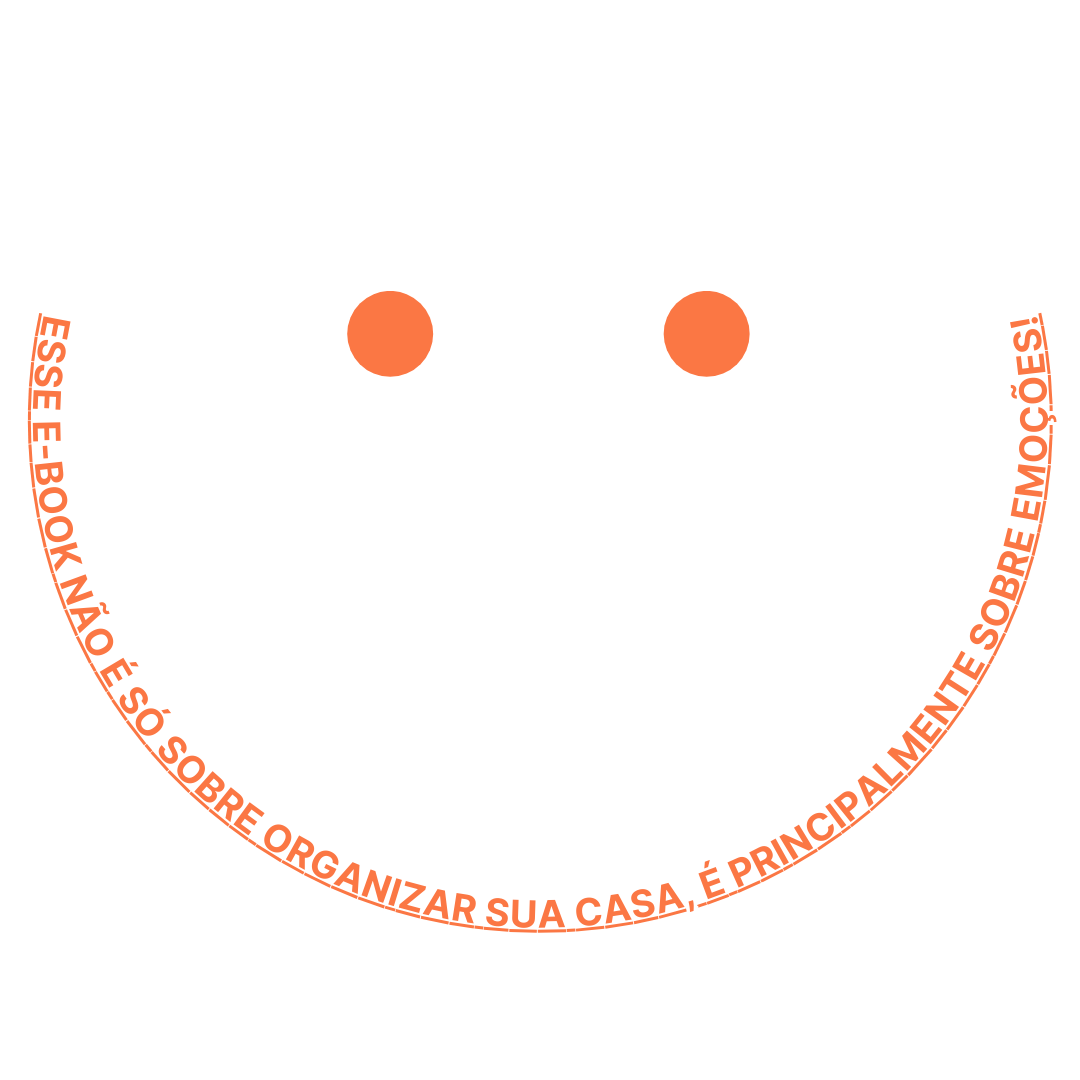
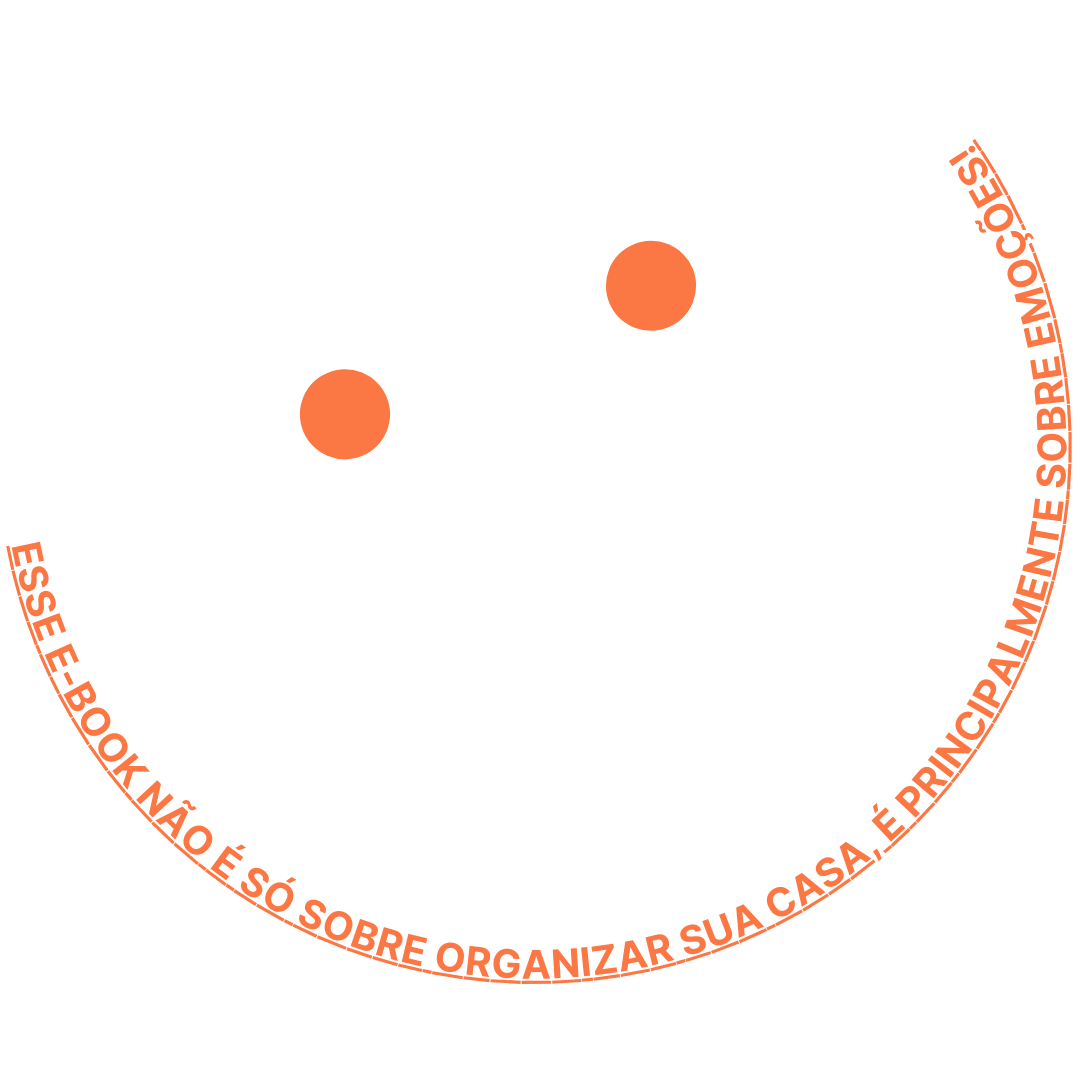
Error barra navegacion resuelto

Changed region(s): [[0.0, 0.1222, 1.0, 0.9167], [0.55, 0.2139, 0.7028, 0.3667], [0.275, 0.2444, 0.3972, 0.4278]]

diff --git a/assets/css/responsive.css b/assets/css/responsive.css
@@ -3,6 +3,10 @@
 /*--------------------*/
 
 @media (min-width: 320px) and (max-width: 575px) {
+	#mu-contact {
+		background-size: 30%;
+		background-position: bottom right 10px;
+	}
 	.navbar-header a.navbar-brand{
 		font-size: 20px;
 		line-height: 20px;
@@ -119,6 +123,10 @@
 }
 
 @media (min-width:576px) and (max-width: 767px) {
+	#mu-contact {
+		background-size: 25%;
+		background-position: bottom right 10px;
+	}
 	.navbar-default .navbar-brand {
 		margin-top: -7px;
 	}
@@ -193,6 +201,10 @@
 }
 
 @media (min-width: 768px) and (max-width: 991px) {
+	#mu-contact {
+		background-size: 25%;
+		background-position: bottom right 30px;
+	}
 	.mu-fixed-nav .navbar-brand {
 		font-size: 25px;
 	}
@@ -387,66 +399,26 @@
 	}
 
 	@media (min-width: 1440px) and (max-width: 1919px) {
-		.mu-hero-left{
-			position: relative;
-			top: 50px;
-			width: 120%;
-			right: 100px;
+		.navbar-default .mu-menu li {
+			margin-left: 10px; /* Ajusta según sea necesario */
+			margin-right: 10px; /* Ajusta según sea necesario */
 		}
-		.mu-hero-left h1 {
+	
+		.navbar-brand {
 			position: relative;
-			left: 10px;
-			bottom: 30px;
-			font-size: 50px;
+			right: 0; /* Ajusta según sea necesario */
 		}
+	
+		.mu-hero-left {
+			position: relative;
+			width: 100%; /* Ajusta según sea necesario */
+		}
+	
+		.mu-hero-left h1,
 		.mu-hero-left h3 {
 			position: relative;
-			left: 10px;
-			bottom: 50px;
-			font-size: 30px;
-		}
-		.navbar-default .mu-menu li a {
-			position: relative;
-			left: 100px;
-			margin: 10px 12px 5px;
-		}
-		.mu-author-info {
-			margin-top: 0px;
-		}
-		.mu-pricing-single img {
-			max-width: 100%;
-		}
-		.mu-hero-right img {
-			position: relative;
-			right: 30px;
-			top: 30px;
-			max-width: 130%;
-			height: auto;
-		}
-		span.redline {
-			position: relative;
-			top: 30px;
-			left: 25px;
-			font-size: 25px;
-		}
-		.mu-hero-left a.mu-primary-btn {
-			width: 95%;
-			position: relative;
-			bottom: 50px;
-			left: 5px;
-		}
-		.mu-hero-left span {
-			position: relative;
-			bottom: 50px;
-			right: 15px;
-		}
-		.navbar-brand br {
-			display: none;
-			font-size: 15px;
-		}
-		.navbar-brand{
-			position: relative;
-			right: 100px;
+			left: 0;
+			bottom: 0;
 		}
 	}
 
@@ -469,11 +441,6 @@
 		left: 10px;
 		bottom: 50px;
 		font-size: 40px;
-	}
-	.navbar-default .mu-menu li a {
-		position: relative;
-		left: 200px;
-		margin: 10px 12px 5px;
 	}
 	.mu-author-info {
 		margin-top: 0px;
@@ -509,11 +476,12 @@
 		display: none;
 		font-size: 15px;
 	}
-	.navbar-brand{
-		position: relative;
-		right: 200px;
+	.navbar>.container .navbar-brand, .navbar>.container-fluid .navbar-brand {
+		margin-left: -220px;
 	}
-
+	.navbar-right {
+		margin-right: -300px;
+	}
 	.mu-faq-area .accordion{
 		position: relative;
 		left: 200px;

diff --git a/assets/js/custom.js b/assets/js/custom.js
@@ -70,20 +70,6 @@
 		   }           
 		})
 
-
-	/* ----------------------------------------------------------- */
-	/*  4. READER TESTIMONIALS (SLICK SLIDER)
-	/* ----------------------------------------------------------- */
-
-		$('.mu-faq-slide').slick({
-			arrows: false,
-			dots: true,
-			infinite: true,
-			speed: 500,
-			autoplay: true,
-			cssEase: 'linear'
-		});
-
 	/* ----------------------------------------------------------- */
 	/*  5. MOBILE MENU CLOSE 
 	/* ----------------------------------------------------------- */ 
@@ -97,7 +83,3 @@
 	
 	
 })( jQuery );
-
-
-  
-	

diff --git a/assets/css/contact.css b/assets/css/contact.css
@@ -5,6 +5,7 @@
 #mu-contact{
 	background: #f8f8f8 url(/assets/images/smile.png) no-repeat bottom right;
 	background-size: 20%;
+	background-position: bottom right 120px;
 	display: inline;
 	float: left;
 	width: 100%;
@@ -116,11 +117,3 @@
      -moz-border-radius: 4px;
           border-radius: 4px;
 }
-
-.smile {
-	position: relative;
-	left: 600px;
-	width: 300px;
-	height: 300px;
-}
-
